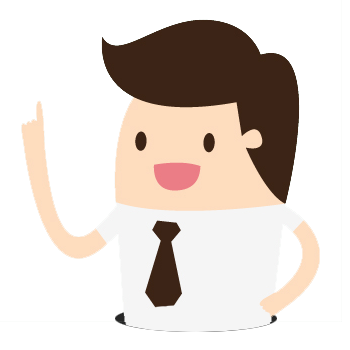
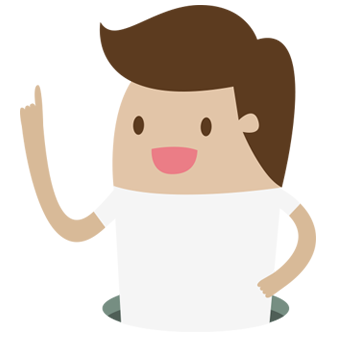
...

diff --git a/src/routes/Wapcard/WapcardTemplate/WapcardTemplate.js b/src/routes/Wapcard/WapcardTemplate/WapcardTemplate.js
@@ -46,6 +46,16 @@ class WapcardTemplate extends React.Component {
     }
   }
 
+  _getStartEndDate (startDate, endDate, current) {
+    let moment = require('moment')
+    moment.locale('sv-SE')
+    if (current) {
+      return moment(startDate).format('MMM YYYY') + ' - Nuvarande anställning'
+    } else {
+      return moment(startDate).format('MMM YYYY') + ' - ' + moment(endDate).format('MMM YYYY')
+    }
+  }
+
   render () {
     let { personalities, motivations, languages, profile, employments, educations, skills } = this.props
 
@@ -132,9 +142,9 @@ class WapcardTemplate extends React.Component {
                   return (
                     <Row key={employment.id} className='timeline-item'>
                       <Col>
-                        <h5 className='mt-2 mb-0'>{employment.title} | {employment.employer}</h5>
-                        <small>{employment.start_date}</small>
-                        <p>{employment.description}</p>
+                        <div className='mb-2 startEndDate'><span>{this._getStartEndDate(employment.start_date, employment.end_date, employment.current)}</span></div>
+                        <h5>{employment.title} | {employment.employer}</h5>
+                        <p style={{ fontSize: 12, lineHeight: 1.1 }}>{employment.description}</p>
                       </Col>
                     </Row>
                   )
@@ -154,7 +164,7 @@ class WapcardTemplate extends React.Component {
                     <Col xs={4} key={skill.id}>
                       <div className='skillCircle flex-column mt-2' data-value={skill.experience}>
                         <h4 className='percentValue' style={{ color: 'black' }}>{skill.experience / 5 * 100}%</h4>
-                        <h5 className='mt-2'>{skill.name}</h5>
+                        <h6 className='skillName mt-2'>{skill.name}</h6>
                       </div>
                       {/* <CircularProgressbar percentage={60} /> */}
                     </Col>
@@ -173,9 +183,9 @@ class WapcardTemplate extends React.Component {
                 if (education.public === true) {
                   return <Row key={education.id} className='timeline-item'>
                     <Col>
-                      <h5 className='mt-2'>{education.school}</h5>
-                      <h6>{education.orientation}</h6>
-                      <p>{education.description}</p>
+                      <div className='mb-2 startEndDate'><span>{this._getStartEndDate(education.start_date, education.end_date, false)}</span></div>
+                      <h5>{education.school} | {education.orientation}</h5>
+                      <p style={{ fontSize: 12, lineHeight: 1.1 }}>{education.description}</p>
                     </Col>
                   </Row>
                 }

diff --git a/src/routes/Wapcard/WapcardTemplate/WapcardTemplate.scss b/src/routes/Wapcard/WapcardTemplate/WapcardTemplate.scss
@@ -87,6 +87,12 @@
           position: absolute;
           margin-top:-15px;
         }
+
+        .skillName {
+          white-space: nowrap;
+          overflow: hidden;
+          text-overflow: ellipsis;
+        }
       }
 
       .timeline-item {
@@ -102,18 +108,35 @@
           left: 20px;
         }
 
-        h5 {
+        .startEndDate {
+          background: #248fb8;
+          color: #fff;
+          display: inline-block;
+          padding: 2px 5px;
           position: relative;
+          left: -15px;
+          font-size: 12px;
 
-          &:before {
+          > span {
+            position: relative;
+            z-index: 2;
+          }
+
+          &:before, &:after {
             content: "";
             background: #248fb8;
-            width: 13px;
-            height: 13px;
+            width: 22px;
+            height: 22px;
             position: absolute;
-            left: -20px;
-            top: 4px;
+            left: -10px;
+            top: 0;
             border-radius: 50%;
+            z-index: 1;
+          }
+
+          &:after {
+            left:auto;
+            right:-10px;
           }
         }
       }

diff --git a/src/layouts/Sidemenu/Sidemenu.js b/src/layouts/Sidemenu/Sidemenu.js
@@ -45,7 +45,7 @@ class Sidemenu extends React.Component {
   showMenu () {
     let $navbarToggle = $('.navbar-toggle ')
     let $body = $('body')
-    $body.addClass('menu-expanded')
+    $body.addClass('menu-expanded overflow-x-hidden')
     $navbarToggle.removeClass('collapsed')
   }
 
@@ -54,6 +54,11 @@ class Sidemenu extends React.Component {
     let $body = $('body')
     $body.removeClass('menu-expanded')
     $navbarToggle.addClass('collapsed')
+    $('.page_wrapper').one('transitionend webkitTransitionEnd oTransitionEnd otransitionend MSTransitionEnd',
+      function () {
+        $body.removeClass('overflow-x-hidden')
+      }
+    )
   }
 
   setCounts (props) {

diff --git a/src/routes/Dashboard/EmploymentsCard/EmploymentsCard.js b/src/routes/Dashboard/EmploymentsCard/EmploymentsCard.js
@@ -27,7 +27,7 @@ class EmploymentsCard extends React.Component {
     return (
       <Card>
         <DashboardButtons linkto='/work/employments' card='employmentscard' cardname='Anställningar' onHide={this.props.onHide} />
-        <CardImg src='/img/employments.jpg' className='img-fluid' />
+        <CardImg src='/img/anstallningar.png' className='img-fluid' />
         <CardImgOverlay className='bg-white'>
           <CardText>{translate('employmentscard.title')}</CardText>
         </CardImgOverlay>

diff --git a/src/components/Helpers/SpeechBubble/SpeechBubble.js b/src/components/Helpers/SpeechBubble/SpeechBubble.js
@@ -89,7 +89,7 @@ class SpeechBubble extends React.Component {
               </Card>
             </div>
             <div className='gubbe'>
-              <img src='/img/helper_male.png' className='gubbe img-fluid' />
+              <img src='/img/helper_male_new.png' className='gubbe img-fluid' />
             </div>
           </div>
         }

diff --git a/src/styles/_layout.scss b/src/styles/_layout.scss
@@ -12,4 +12,7 @@ body {
   &.menu-expanded {
     overflow-x: hidden;
   }
+  &.overflow-x-hidden {
+    overflow-x: hidden;
+  }
 }
